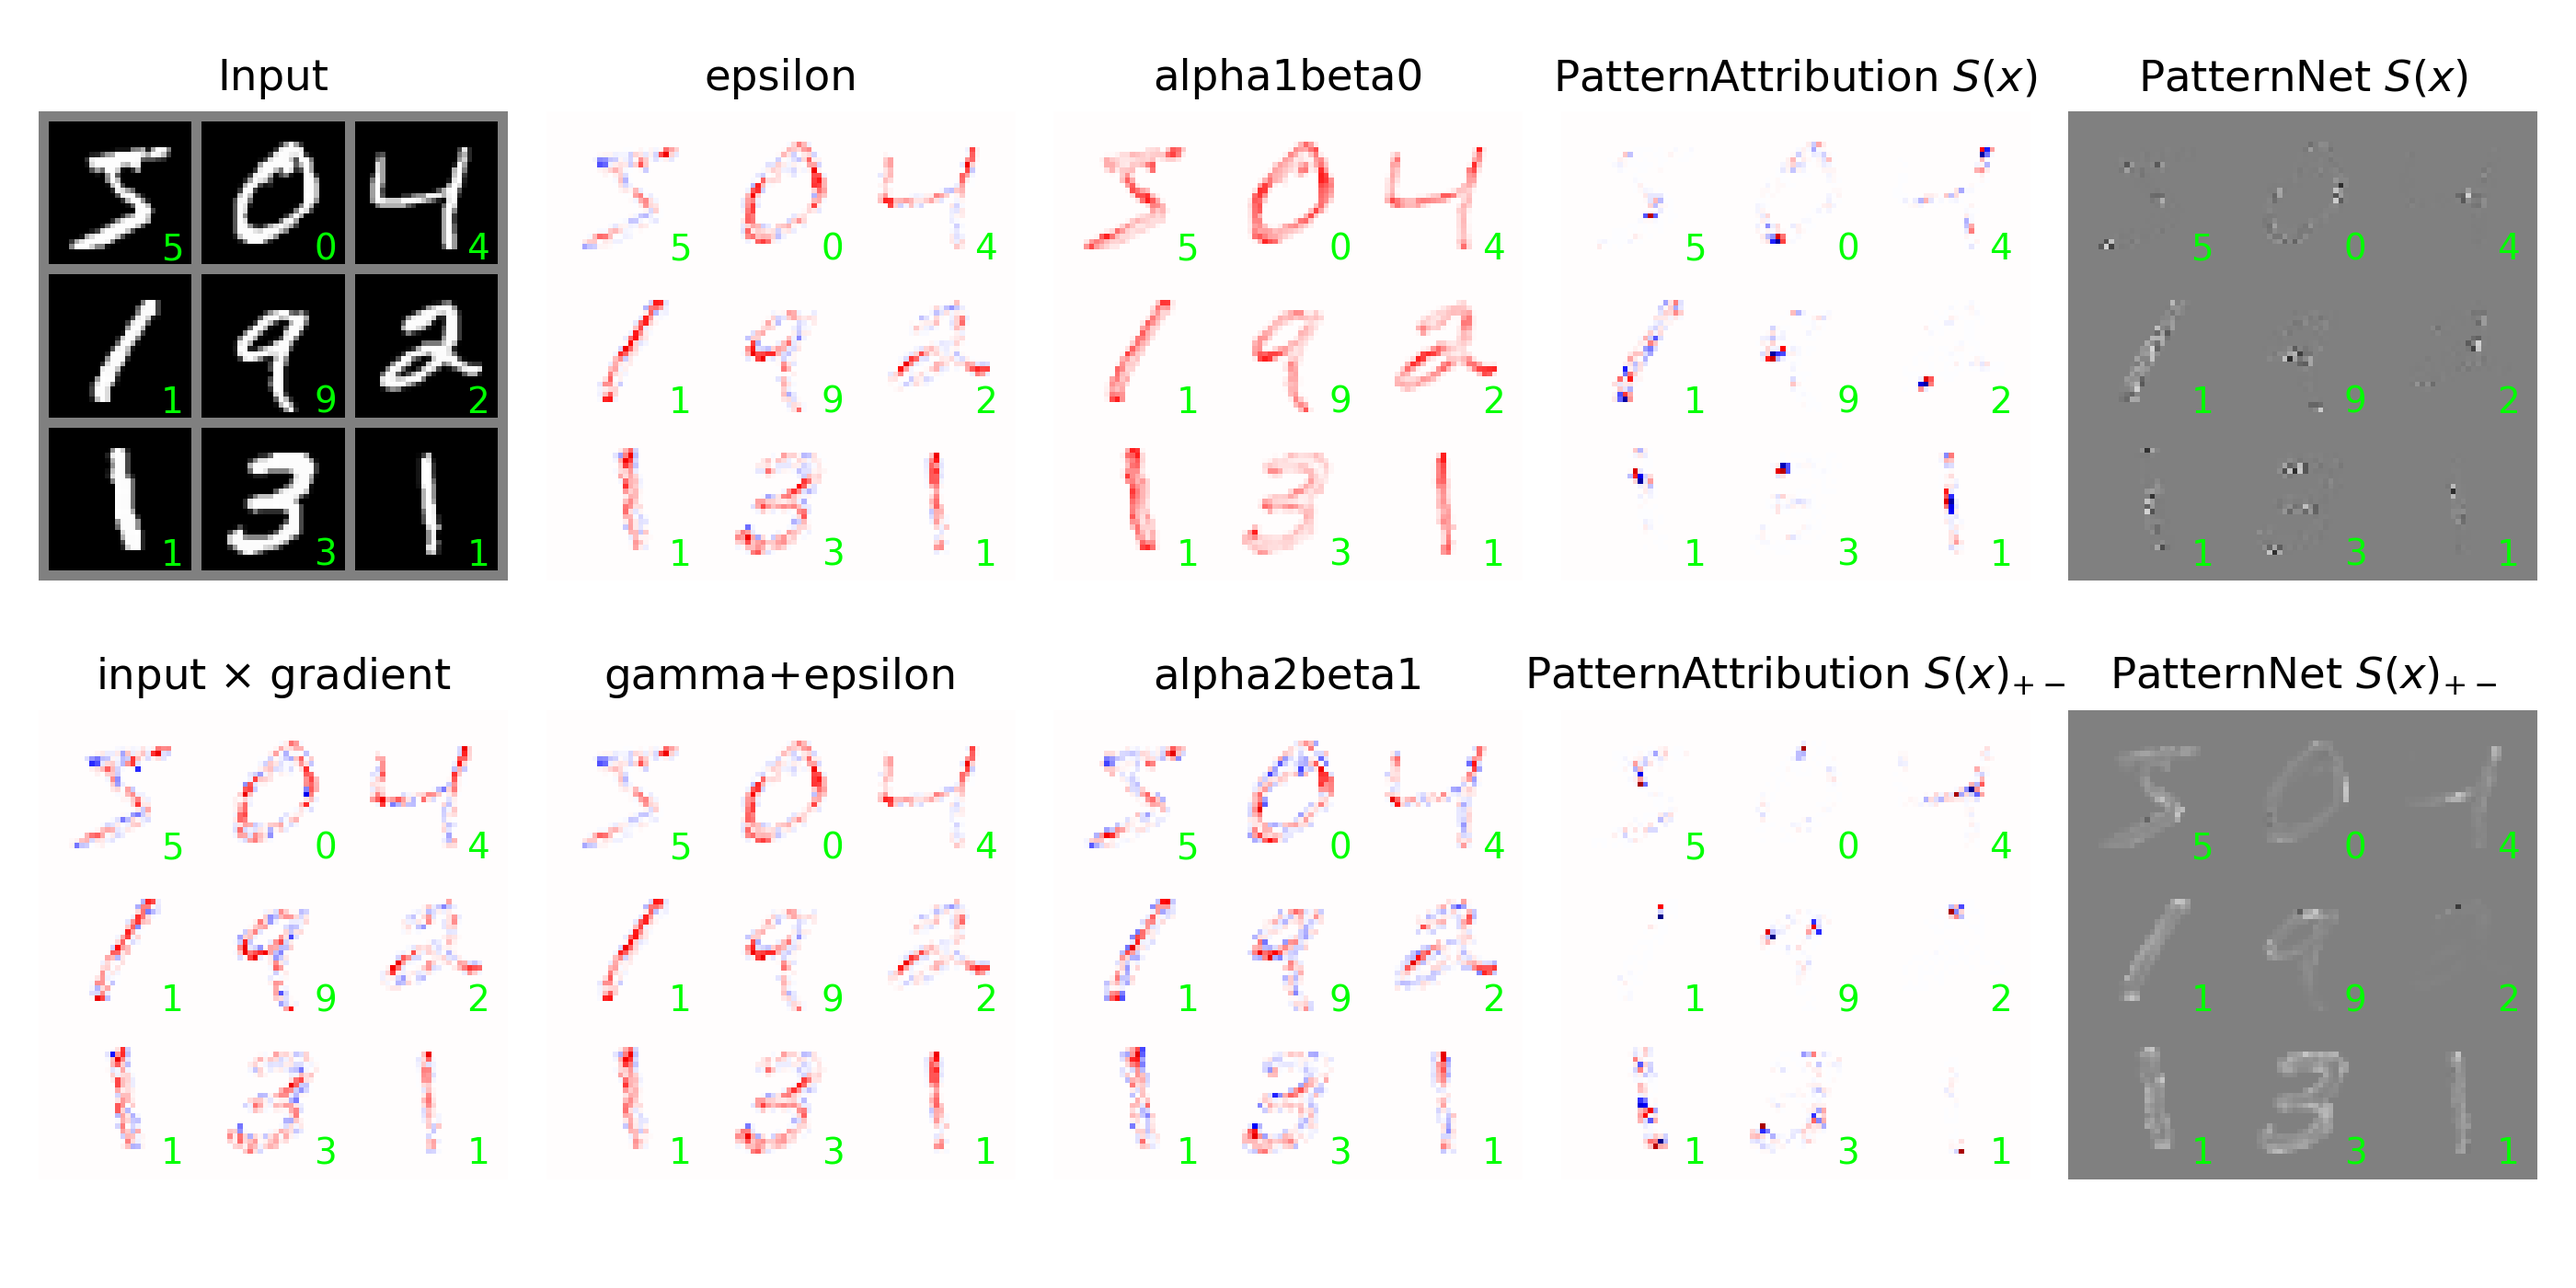
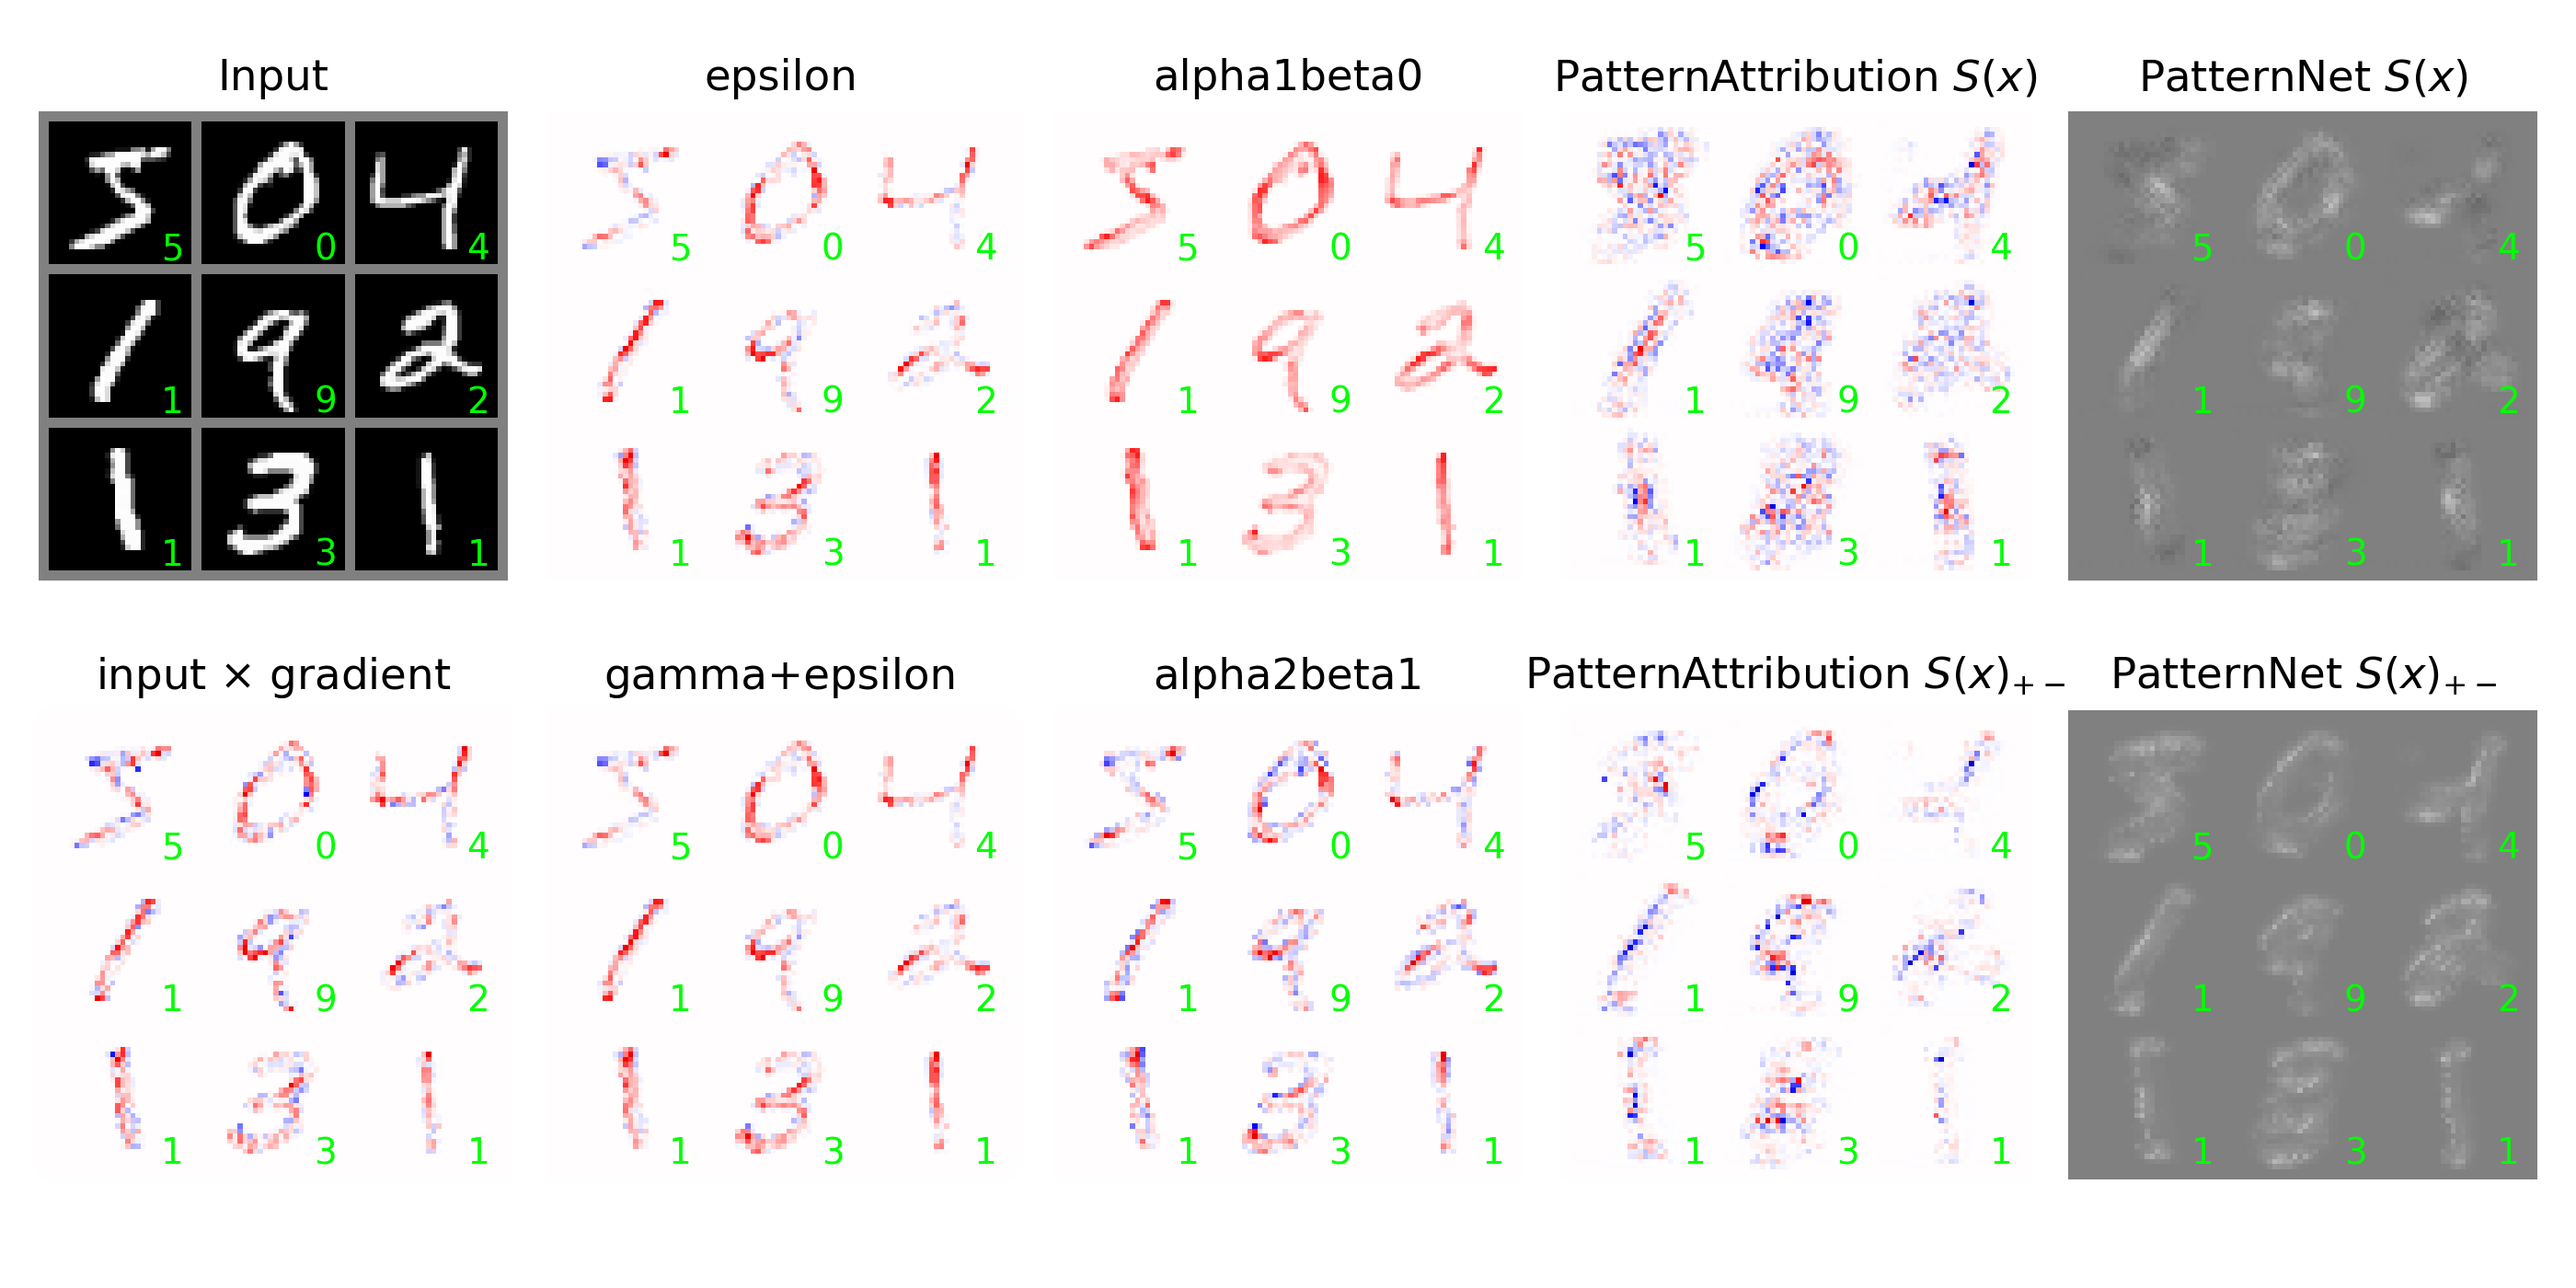
Bug in MaxPool. Disabling for now

diff --git a/lrp/functional/maxpool.py b/lrp/functional/maxpool.py
@@ -12,14 +12,14 @@ class MaxPooling2d(Function):
 
         ctx.save_for_backward(input)
 
-        return F.max_pool2d(input, kernel_size=kernel_size, stride=stride, padding=padding, dilation=dilation)
+        return F.max_pool2d(input, kernel_size=kernel_size, stride=stride, padding=padding)
 
     @staticmethod
     def backward(ctx, relevance_output):
-        input = ctx.saved_tensors
+        input, *_ = ctx.saved_tensors
         Z = F.avg_pool2d(input, kernel_size=ctx.kernel_size, stride=ctx.stride, padding=ctx.padding) + 1e-10
         relevance_output = relevance_output / Z
-        relevance_input  = torch.autograd.grad(Z, input, relevance_input)
+        relevance_input  = torch.autograd.grad(Z, input, relevance_output)
         relevance_input = relevance_input * input
 
         return relevance_input, None, None, None 
@@ -27,12 +27,12 @@ class MaxPooling2d(Function):
 
 maxpool2d = {
         "gradient":             F.max_pool2d,
-        "epsilon":              MaxPooling2d.apply,
-        "gamma":                MaxPooling2d.apply,
-        "gamma+epsilon":        MaxPooling2d.apply,
-        "alpha1beta0":          MaxPooling2d.apply,
-        "alpha2beta1":          MaxPooling2d.apply,
-        "patternattribution":   MaxPooling2d.apply,
-        "patternnet":           MaxPooling2d.apply,
+        "epsilon":              F.max_pool2d,# MaxPooling2d.apply,
+        "gamma":                F.max_pool2d,# MaxPooling2d.apply,
+        "gamma+epsilon":        F.max_pool2d,# MaxPooling2d.apply,
+        "alpha1beta0":          F.max_pool2d,# MaxPooling2d.apply,
+        "alpha2beta1":          F.max_pool2d,# MaxPooling2d.apply,
+        "patternattribution":   F.max_pool2d,# MaxPooling2d.apply,
+        "patternnet":           F.max_pool2d,# MaxPooling2d.apply,
 }
 

diff --git a/lrp/sequential.py b/lrp/sequential.py
@@ -1,5 +1,6 @@
 import torch
 from . import Linear, Conv2d
+from .maxpool import MaxPool2d
 
 class Sequential(torch.nn.Sequential):
     def forward(self, input, explain=False, rule="epsilon", pattern=None):
@@ -10,6 +11,10 @@ class Sequential(torch.nn.Sequential):
                     input = module.forward(input, explain=True, rule=rule, pattern=pattern.pop(0))
                 else:                   
                     input = module.forward(input, explain=True, rule=rule)
+
+            elif  isinstance(module, MaxPool2d):
+                input = module.forward(input, explain=True, rule=rule)
+
             else: 
                 input = module(input)
         return input

diff --git a/lrp/functional/linear.py b/lrp/functional/linear.py
@@ -121,10 +121,10 @@ def _backward_pattern(ctx, relevance_output):
     if  ctx.attribution: P = weight * P                 # PatternAttribution
     Z                = F.linear(input, P, bias)
     Z               += ((Z > 0).float()*2.-1) * 1e-6    # Safety tiny normalization to avoid dividing with zero
-    relevance_output = relevance_output / Z
 
+    # relevance_output = relevance_output / Z
     relevance_input  = F.linear(relevance_output, P.t(), bias=None)
-    relevance_input  = relevance_input * input
+    # relevance_input  = relevance_input * input
 
     # relevance_input  = normalize(relevance_input)
 

diff --git a/lrp/functional/conv.py b/lrp/functional/conv.py
@@ -130,9 +130,9 @@ def _pattern_backward(ctx, relevance_output):
 
     Z                = F.conv2d(input, P, bias=bias, stride=ctx.stride, padding=ctx.padding)
     Z               += ((Z > 0).float()*2-1) * 1e-6
-    relevance_output = relevance_output / Z
+    # relevance_output = relevance_output / Z
     relevance_input  = F.conv_transpose2d(relevance_output, P, padding=ctx.padding)
-    relevance_input  = relevance_input * input
+    # relevance_input  = relevance_input * input
 
     return relevance_input, None, None, None, None, None, None, None
 
